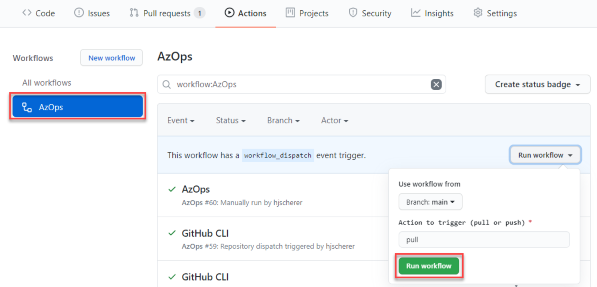
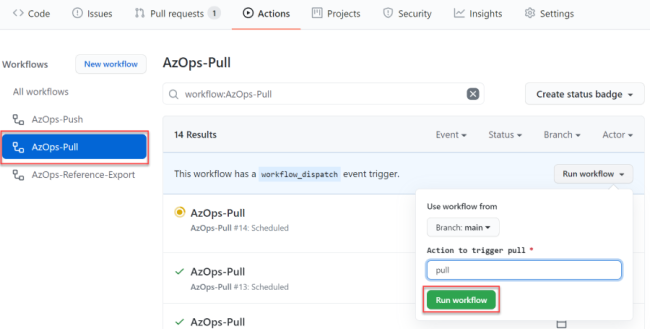
Update GitHub Actions

diff --git a/docs/enterprise-scale-iab/setup-git-cicd.md b/docs/enterprise-scale-iab/setup-git-cicd.md
@@ -70,9 +70,9 @@ The Discovery/Initialization process will run entirely on GitHub. Follow these s
 
     ![_Figure_](./media/wt-2.1-2.5.png)
 
-10. Now, we will run discovery, based on GitHub Actions, to discover existing Azure environment and initialize your GitHub repo. This uses the GitHub Actions `workflow_dispatch` trigger. This requires the latest `.github/workflows/azops.yml` file containing the `workflow_dispatch` section in the current repo.
+10. Now, we will run discovery using GitHub Actions, this initializes your GitHub repo with your Azure environment. This uses the GitHub Actions `workflow_dispatch` trigger and requires requires the latest [`.github/workflows/azops-pull.yml`](../../../.github/workflows) file containing the `workflow_dispatch` section your current repo.
 
-    Go to the **Actions** tab in your GitHub repository and select the **AzOps** workflow. Click on **Run workflow**, select _Branch: main_ and _Action to trigger = pull_ and start the process with **Run workflow** button.
+    Go to the **Actions** tab in your GitHub repository and select the **AzOps-Pull** workflow. Click on **Run workflow**, select _Branch: main_ and _Action to trigger = pull_ and start the process with **Run workflow** button.
 
     ![_Figure_](./media/wt-2.1-3.png)
 
@@ -84,7 +84,7 @@ The Discovery/Initialization process will run entirely on GitHub. Follow these s
     ![_Figure_](./media/wt-2.1-5.png)
 
     > **NOTE:**
-    > If the discovery process fails, just re-run discovery by executing the command line from the previous step.
+    > If the discovery process fails, just re-run the workflow.
 
 12. The GitHub Action in the previous step will create the following artifacts in your GitHub repository:
 
@@ -112,13 +112,13 @@ The ARM template deployment will be performed via GitHub Actions to a single reg
 
 Please perform the following steps to configure the region for the template deployment:
 
-1. Open the file **azops.yml** in the folder **/**.**github/workflows** in your Visual Studio Code.
+1. Open the files **azops-pull.yml** and **azops-push.yml** in the folder **/**.**github/workflows** in your Visual Studio Code.
 
-2. Change the **AZOPS_DEFAULT_DEPLOYMENT_REGION** attribute in the **env** section of the yml file.
+2. Change the **AZOPS_DEFAULT_DEPLOYMENT_REGION** attribute in the **env** section of **both** yml file.
 
     ![_Figure_](./media/wt-2.2-1.png)
 
-    For example, for a deployment in the North Europe Azure region, you would provide:
+    For example, for a deployment in the _North Europe_ Azure region, you would provide:
 
     `AZOPS_DEFAULT_DEPLOYMENT_REGION: "northeurope"`
 
